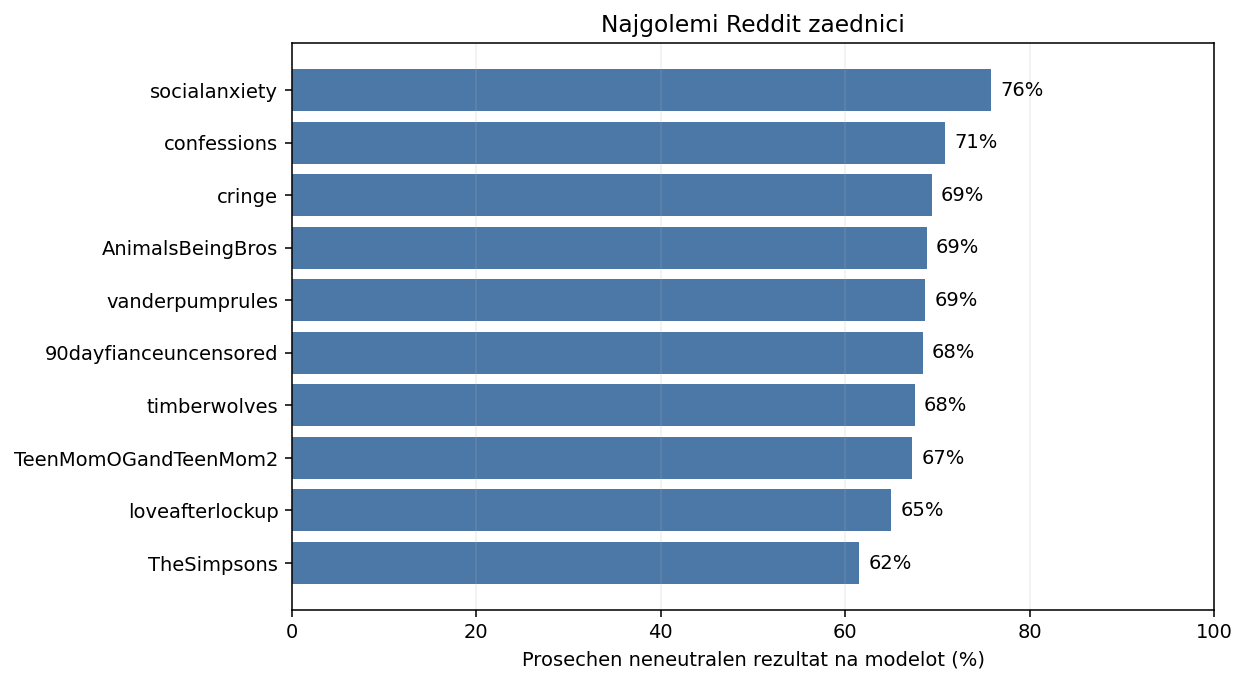
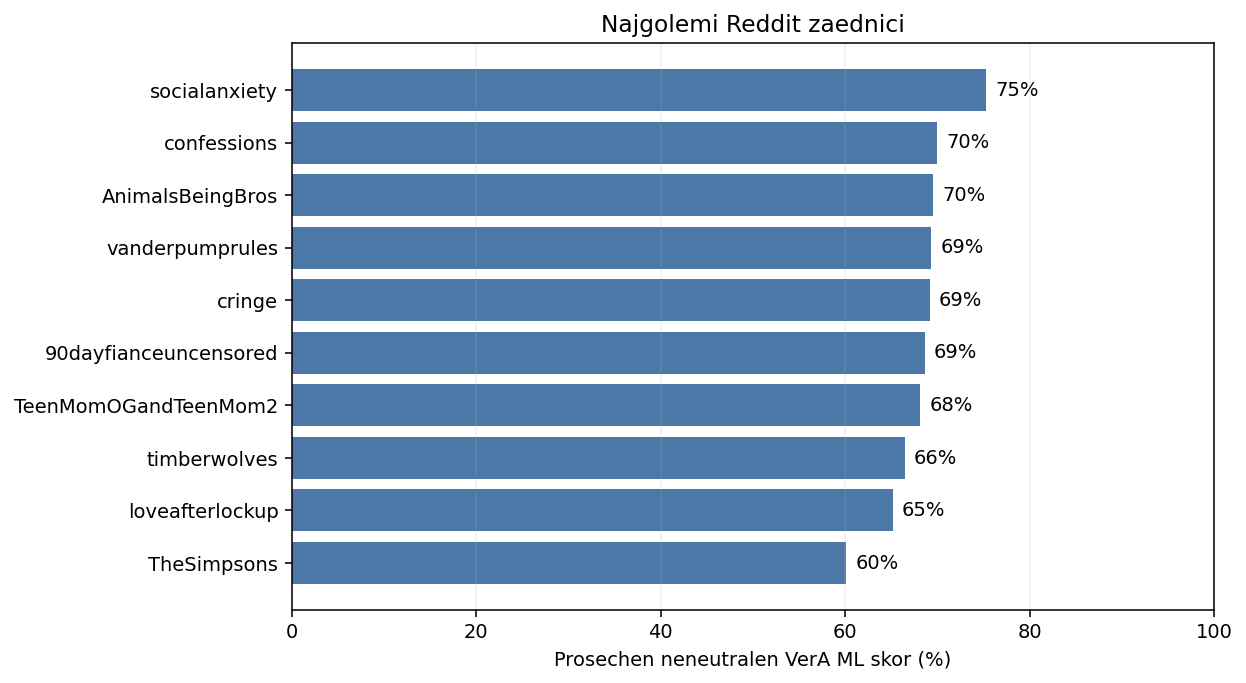
Use VerA ML predictions in descriptive outputs

diff --git a/simple_analysis.py b/simple_analysis.py
@@ -1,8 +1,9 @@
-"""Make a small, descriptive report from the already-scored comments."""
+"""Make a descriptive report grouped by VerA ML predictions."""
 
 from __future__ import annotations
 
 import argparse
+import json
 from pathlib import Path
 
 import matplotlib
@@ -14,11 +15,16 @@ import numpy as np
 import pandas as pd
 
 from emotion_labels import EMOTION_LABELS
+from simple_ml import predict_scores
 
 PROJECT_ROOT = Path(__file__).resolve().parent
 
 DEFAULT_INPUT = PROJECT_ROOT / "input" / "final_scored_comments.csv"
 DEFAULT_OUTPUT = PROJECT_ROOT / "results"
+DEFAULT_MODEL = PROJECT_ROOT / "results" / "ml" / "model.joblib"
+SENTIMENT_MAPPING = (
+    PROJECT_ROOT / "data" / "simplified" / "sentiment_mapping.json"
+)
 GROUP_ORDER = ["negative", "positive", "ambiguous", "neutral"]
 BLUE = "#4C78A8"
 ORANGE = "#F58518"
@@ -28,17 +34,51 @@ GROUP_LABELS = {
     "ambiguous": "Nejasna",
     "neutral": "Neutralna",
 }
+
+
+def _load_emotion_groups(emotions: list[str]) -> dict[str, str]:
+    mapping = json.loads(SENTIMENT_MAPPING.read_text(encoding="utf-8"))
+    if not isinstance(mapping, dict):
+        raise ValueError(
+            f"Nevalidno mapiranje na emocionalni grupi: {SENTIMENT_MAPPING}"
+        )
+
+    groups = {"neutral": "neutral"}
+    for group, members in mapping.items():
+        if group not in {"negative", "positive", "ambiguous"} or not isinstance(
+            members, list
+        ):
+            raise ValueError(f"Nevalidna emocionalna grupa vo: {SENTIMENT_MAPPING}")
+        for emotion in members:
+            if (
+                not isinstance(emotion, str)
+                or emotion not in emotions
+                or emotion in groups
+            ):
+                raise ValueError(
+                    f"Nevalidna ili povtorena emocija vo: {SENTIMENT_MAPPING}"
+                )
+            groups[emotion] = group
+
+    if set(groups) != set(emotions):
+        raise ValueError(
+            f"Mapiranjeto na grupi ne gi opfakja site emocii: {SENTIMENT_MAPPING}"
+        )
+    return groups
+
+
 def run_simple_analysis(
     input_path: str | Path = DEFAULT_INPUT,
     output_dir: str | Path = DEFAULT_OUTPUT,
     emotions_path: str | Path | None = None,
+    model_path: str | Path = DEFAULT_MODEL,
 ) -> dict[str, Path]:
-    """Write simple counts, averages, and charts; no hypothesis tests."""
+    """Write simple summaries grouped by VerA's dominant emotion predictions."""
     input_path = Path(input_path)
     output_dir = Path(output_dir)
     if not input_path.is_file():
         raise FileNotFoundError(
-            f"Ne e pronajdena datotekata so oceneti komentari: {input_path}. "
+            f"Ne e pronajdena datotekata so anotirani komentari: {input_path}. "
             "Stavete ja CSV-datotekata na ovaa lokacija."
         )
 
@@ -56,12 +96,9 @@ def run_simple_analysis(
         raise ValueError(
             f"Listata na emocii mora da ima unikatni stavki: {emotion_file}"
         )
-    human_columns = [f"human_{emotion}" for emotion in emotions]
     required = {
-        *emotions,
-        *human_columns,
-        "glavna_emocija",
-        "grupa",
+        "text",
+        *(f"human_{emotion}" for emotion in emotions),
         "dol",
         "vulg_any",
         "pol",
@@ -76,18 +113,41 @@ def run_simple_analysis(
         )
     if data.empty:
         raise ValueError("Datotekata so oceneti komentari e prazna")
+    if (
+        data["text"].isna().any()
+        or data["text"].astype(str).str.strip().eq("").any()
+    ):
+        raise ValueError("Site komentari mora da sodrzhat tekst")
 
+    scores, model_emotions, _ = predict_scores(
+        data["text"].astype(str).tolist(),
+        model_path,
+    )
+    if model_emotions != emotions:
+        raise ValueError(
+            "Listata na emocii vo modelot ne se sovpagja so input/emotions.txt"
+        )
+    emotion_groups = _load_emotion_groups(emotions)
+    data[emotions] = pd.DataFrame(scores, index=data.index, columns=emotions)
+    data["glavna_emocija"] = [emotions[index] for index in scores.argmax(axis=1)]
+    data["grupa"] = data["glavna_emocija"].map(emotion_groups)
+    if data["grupa"].isna().any():
+        raise ValueError("Modelot proizvede emocija bez emocionalna grupa")
+
+    human_columns = [f"human_{emotion}" for emotion in emotions]
     human_scores = data[human_columns]
     has_human_labels = human_scores.sum(axis=1) > 0
     human_dominant = human_scores.loc[has_human_labels].idxmax(axis=1)
     human_dominant = human_dominant.str.removeprefix("human_")
-    model_counts = data["glavna_emocija"].value_counts().reindex(emotions, fill_value=0)
+    model_counts = (
+        data["glavna_emocija"].value_counts().reindex(emotions, fill_value=0)
+    )
     human_counts = human_dominant.value_counts().reindex(emotions, fill_value=0)
     emotion_table = pd.DataFrame(
         {
             "Emocija": [EMOTION_LABELS.get(emotion, emotion) for emotion in emotions],
-            "Model_komentari": model_counts.to_numpy(),
-            "Model_procent": model_counts.to_numpy() / len(data) * 100,
+            "VerA_ML_komentari": model_counts.to_numpy(),
+            "VerA_ML_procent": model_counts.to_numpy() / len(data) * 100,
             "Izvorni_rateri_komentari": human_counts.to_numpy(),
             "Izvorni_rateri_procent": (
                 human_counts.to_numpy() / len(human_dominant) * 100
@@ -150,7 +210,7 @@ def run_simple_analysis(
     top_emotions = (
         emotion_table.assign(
             vkupno=lambda table: (
-                table["Model_komentari"] + table["Izvorni_rateri_komentari"]
+                table["VerA_ML_komentari"] + table["Izvorni_rateri_komentari"]
             ),
         )
         .set_index("Emocija")
@@ -164,9 +224,9 @@ def run_simple_analysis(
     height = 0.38
     axis.barh(
         y - height / 2,
-        top_emotions["Model_procent"],
+        top_emotions["VerA_ML_procent"],
         height,
-        label="Model",
+        label="VerA ML model",
         color=BLUE,
     )
     axis.barh(
@@ -178,7 +238,7 @@ def run_simple_analysis(
     )
     axis.set_yticks(y, top_emotions.index)
     axis.set_xlabel("Komentari (%)")
-    axis.set_title("Najchesti dominantni emocii")
+    axis.set_title("Dominantni emocii: VerA ML model i ocenuvachi")
     axis.legend()
     axis.grid(axis="x", alpha=0.2)
     fig.tight_layout()
@@ -212,7 +272,7 @@ def run_simple_analysis(
             color=BLUE,
         )
         axis.set_title(title)
-        axis.set_xlabel("Emocionalna grupa od modelot")
+        axis.set_xlabel("Emocionalna grupa od VerA ML modelot")
         axis.set_ylabel(ylabel)
         if limit is not None:
             axis.set_ylim(0, limit)
@@ -238,7 +298,7 @@ def run_simple_analysis(
         subreddit_table["Prosechen_neneutralen_rezultat_procent"],
         color=BLUE,
     )
-    axis.set_xlabel("Prosechen neneutralen rezultat na modelot (%)")
+    axis.set_xlabel("Prosechen neneutralen VerA ML skor (%)")
     axis.set_title("Najgolemi Reddit zaednici")
     axis.set_xlim(0, 100)
     axis.grid(axis="x", alpha=0.2)
@@ -259,6 +319,7 @@ def run_simple_analysis(
 
     print(f"Sumirani komentari: {len(data):,}")
     print(f"Komentari so oznaki od izvornite ocenuvachi: {len(human_dominant):,}")
+    print("Emocionalnite grupi se izvedeni od skorovite na VerA ML modelot.")
     print(f"Tabeli i ednostavni grafikoni: {output_dir}")
     return {
         "emotion_table": emotion_path,
@@ -275,9 +336,11 @@ if __name__ == "__main__":
     parser.add_argument("--input", type=Path, default=DEFAULT_INPUT)
     parser.add_argument("--emotions", type=Path)
     parser.add_argument("--output-dir", type=Path, default=DEFAULT_OUTPUT)
+    parser.add_argument("--model", type=Path, default=DEFAULT_MODEL)
     arguments = parser.parse_args()
     run_simple_analysis(
         input_path=arguments.input,
         output_dir=arguments.output_dir,
         emotions_path=arguments.emotions,
+        model_path=arguments.model,
     )

diff --git a/simple_ml.py b/simple_ml.py
@@ -378,9 +378,7 @@ def train_model(
     }
 
 
-def predict_text(text: str, model_path: str | Path) -> list[tuple[str, float]]:
-    if not text.strip():
-        raise ValueError("Tekstot za predviduvanje ne smee da bide prazen")
+def _load_model_artifact(model_path: str | Path) -> tuple[Pipeline, list[str], float]:
     artifact = joblib.load(model_path)
     if not isinstance(artifact, dict) or not {
         "model",
@@ -392,19 +390,49 @@ def predict_text(text: str, model_path: str | Path) -> list[tuple[str, float]]:
     emotions = artifact["emotions"]
     threshold = artifact["threshold"]
     if (
-        not isinstance(emotions, list)
+        not isinstance(model, Pipeline)
+        or not isinstance(emotions, list)
         or not all(isinstance(emotion, str) for emotion in emotions)
+        or not emotions
+        or len(emotions) != len(set(emotions))
         or not isinstance(threshold, (int, float))
         or not 0 < threshold < 1
     ):
         raise ValueError(f"Invalid model metadata: {model_path}")
-    scores = model.predict_proba([text])[0]
-    if scores.shape != (len(emotions),):
+    return model, emotions, float(threshold)
+
+
+def predict_scores(
+    texts: Sequence[str],
+    model_path: str | Path,
+    batch_size: int = 1024,
+) -> tuple[np.ndarray, list[str], float]:
+    if not texts:
+        raise ValueError("Tekstovite za predviduvanje ne smeat da bidat prazni")
+    if batch_size < 1:
+        raise ValueError("Batch size mora da bide pozitiven")
+    if any(not isinstance(text, str) or not text.strip() for text in texts):
+        raise ValueError("Tekstovite za predviduvanje ne smeat da bidat prazni")
+
+    model, emotions, threshold = _load_model_artifact(model_path)
+    batches = [
+        model.predict_proba(texts[start : start + batch_size])
+        for start in range(0, len(texts), batch_size)
+    ]
+    scores = np.vstack(batches)
+    if scores.shape != (len(texts), len(emotions)):
         raise ValueError(f"Model output does not match its emotion list: {model_path}")
+    if not np.isfinite(scores).all() or ((scores < 0) | (scores > 1)).any():
+        raise ValueError(f"Model scores must be finite values in [0, 1]: {model_path}")
+    return scores, emotions, threshold
+
+
+def predict_text(text: str, model_path: str | Path) -> list[tuple[str, float]]:
+    scores, emotions, threshold = predict_scores([text], model_path)
     labels = [
-        (EMOTION_LABELS.get(emotion, emotion), float(scores[index]))
+        (EMOTION_LABELS.get(emotion, emotion), float(scores[0, index]))
         for index, emotion in enumerate(emotions)
-        if scores[index] >= threshold
+        if scores[0, index] >= threshold
     ]
     return sorted(labels, key=lambda result: result[1], reverse=True)
 

diff --git a/README.md b/README.md
@@ -47,5 +47,20 @@ Se prikazhuvaat site emocii nad izbraniot prag so nivniot model-skor.
 Skorot ne e psiholoshka procenka ili garancija za vistinskoto chuvstvo na
 avtorot.
 
-`simple_analysis.py` e dopolnitelen izvestaj za vekje oceneti komentari;
-ne trenira model. CSV-so komentarite ne se vkluchuva vo repozitoriumot.
+## Opisni izvestai so ML
+
+Po obuka, stavete ja anotiranata CSV-datoteka vo `input/final_scored_comments.csv`
+i izvrshite:
+
+```text
+python simple_analysis.py
+```
+
+Skriptata povtorno gi ocenuva tekstovite so VerA modelot i gi koristi tie
+skorovi za dominantna emocija i emocionalna grupa. Dominantna e emocijata so
+najvisok skor od site 28 emocii; ova e odvoeno od pragot za povekje oznaki.
+Grafikonite za dolzhina, psovki, ton, subjektivnost i Reddit-zaednici gi
+prikazhuvaat opisnite podatoci od CSV po VerA ML-grupa; tie ne se metriki za
+uspeh na klasifikatorot.
+
+CSV-so komentarite sodrzhi tekst i ne se vkluchuva vo repozitoriumot.
